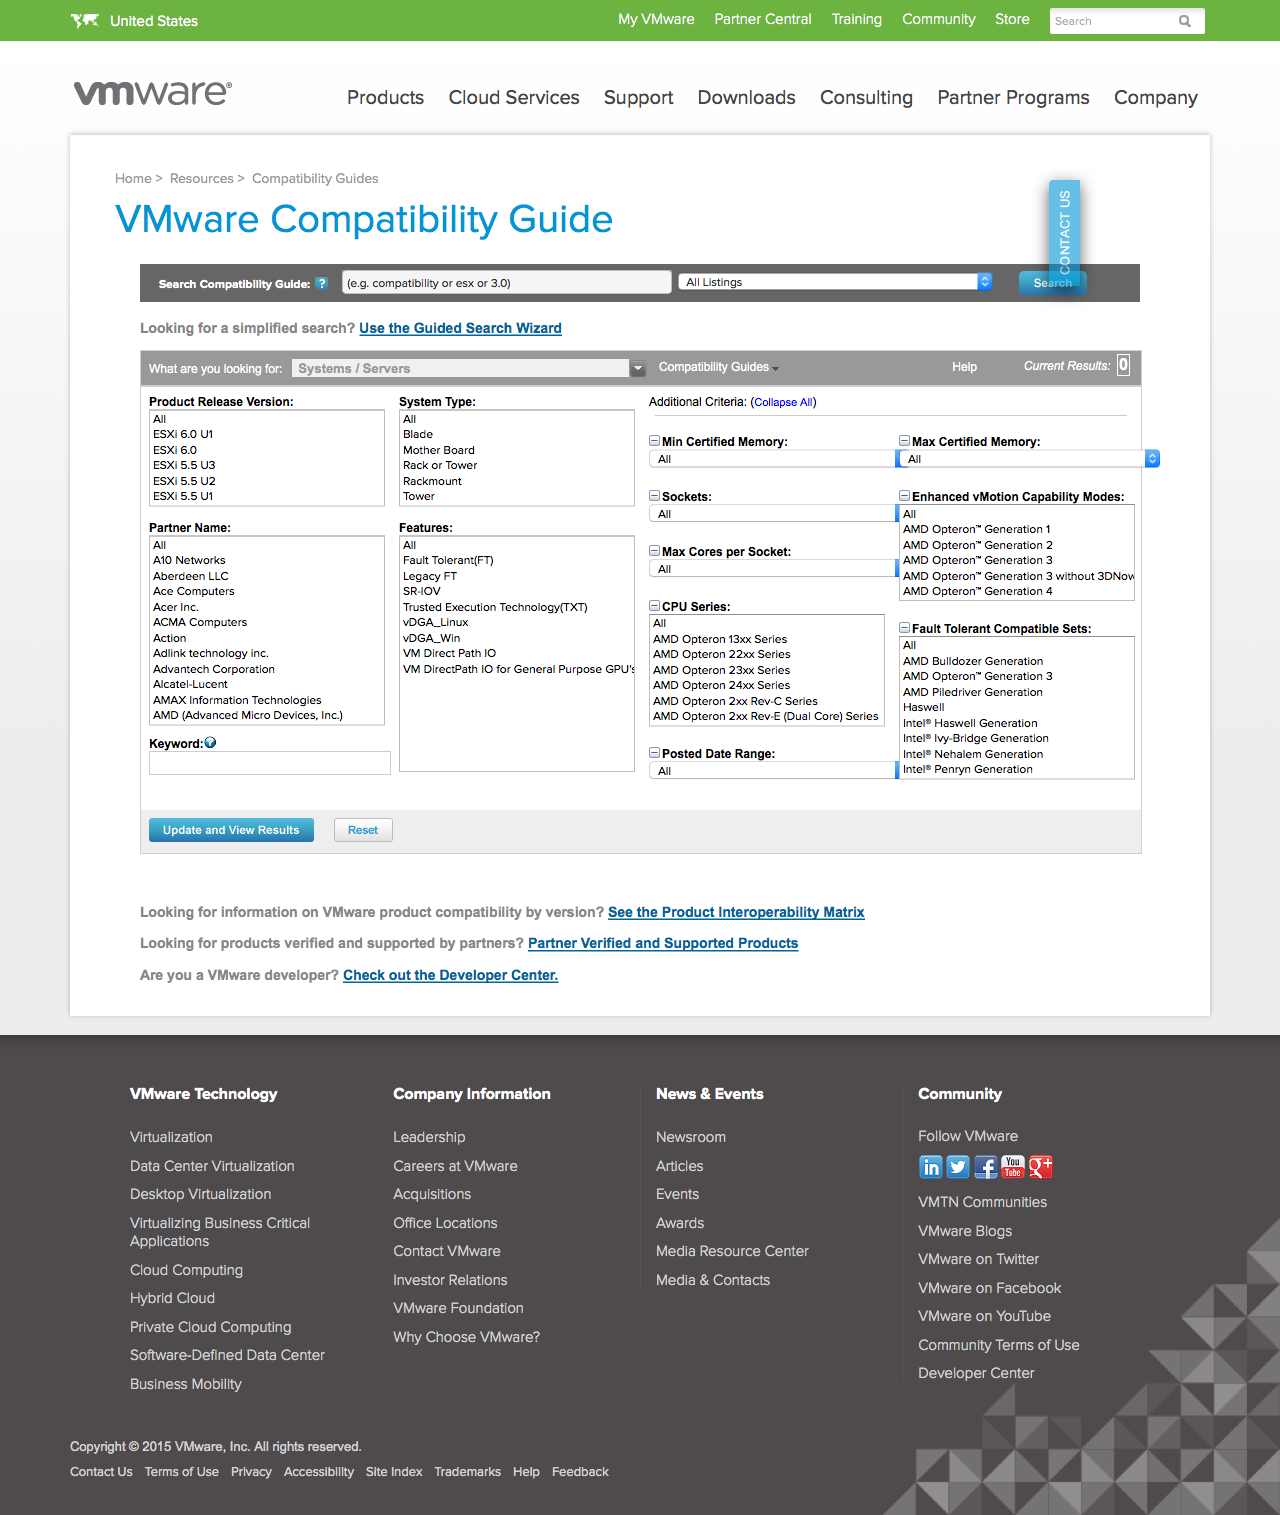
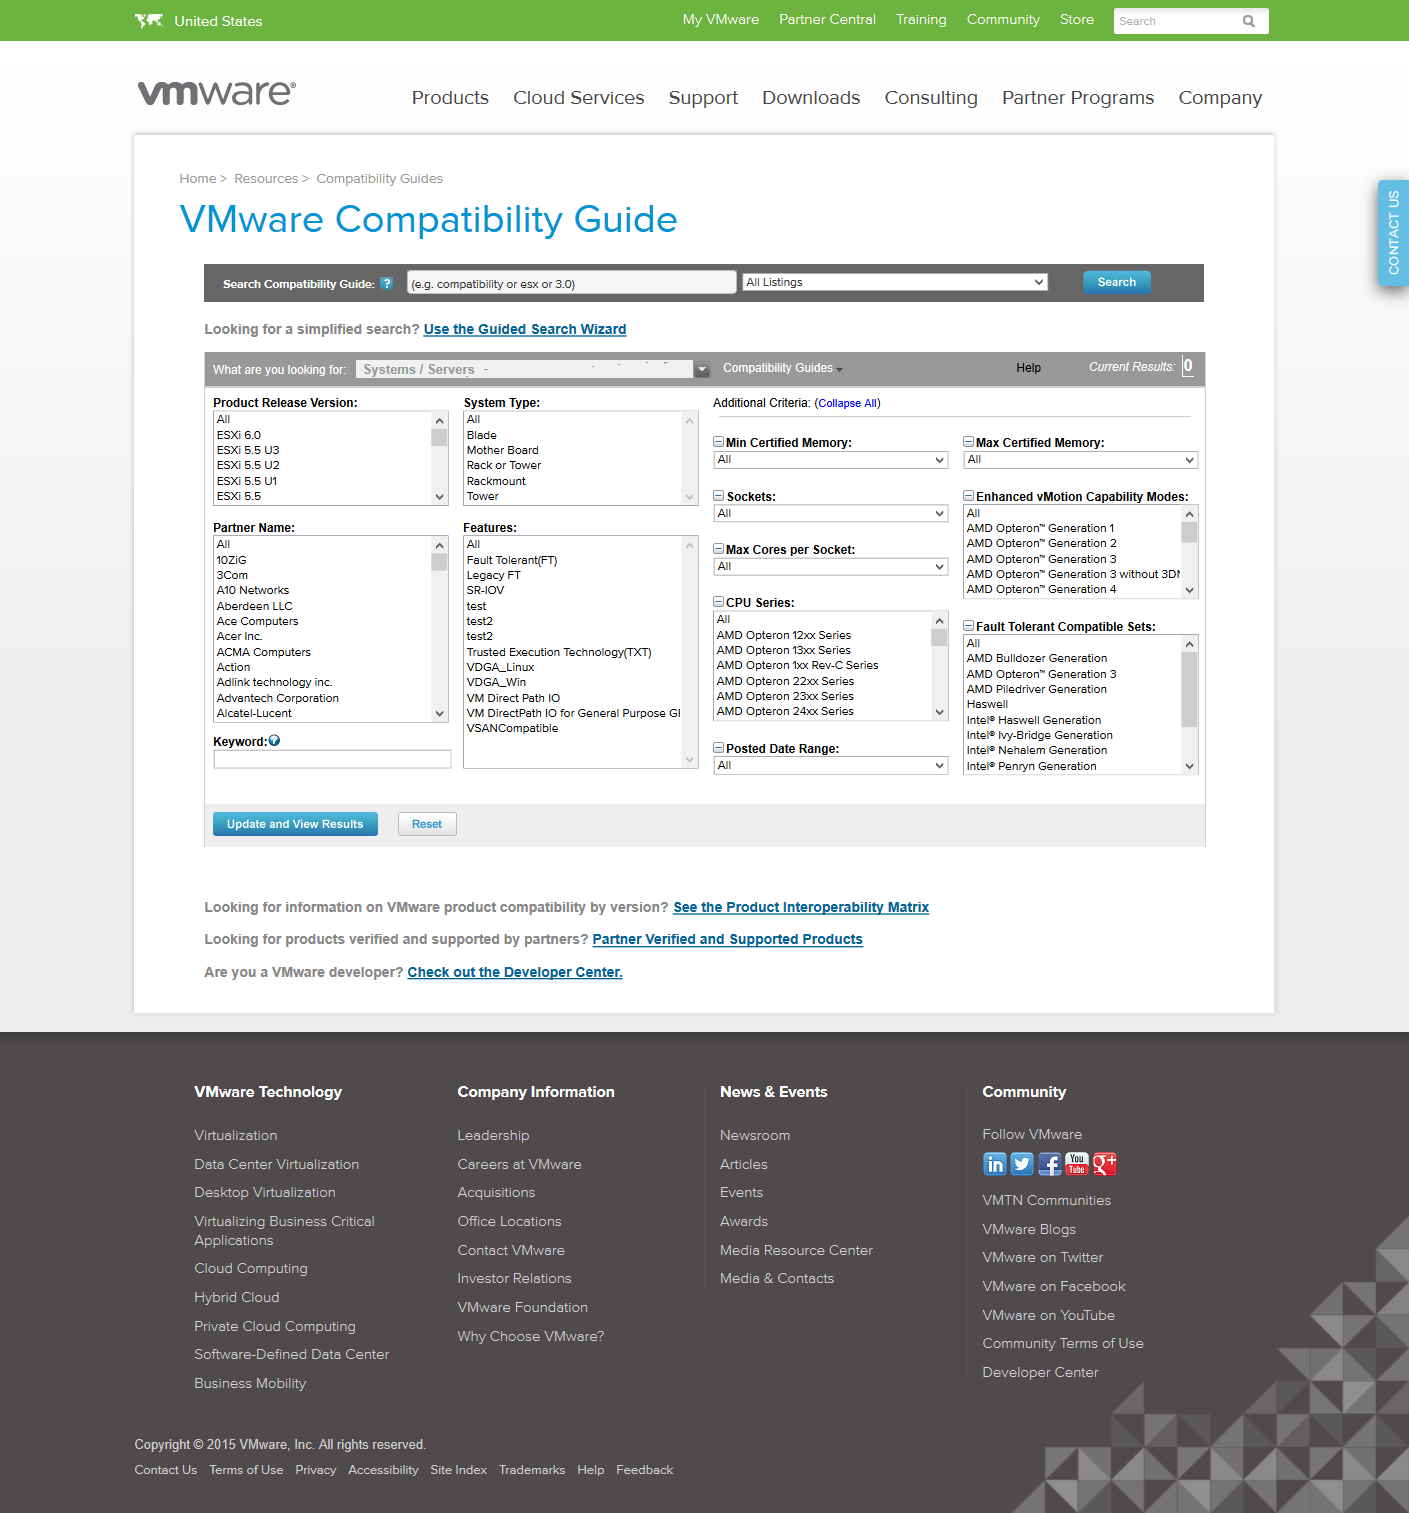
Creates diff file with difference in red color
Creates diff file with difference in red color

diff --git a/src/main/java/PageShooter.java b/src/main/java/PageShooter.java
@@ -1,6 +1,10 @@
 
+import java.awt.image.BufferedImage;
+import java.awt.image.DataBufferInt;
 import java.io.File;
 import java.util.concurrent.TimeUnit;
+
+import javax.imageio.ImageIO;
 
 import org.apache.commons.io.FileUtils;
 import org.openqa.selenium.OutputType;
@@ -16,8 +20,8 @@ public class PageShooter {
 
 	public static void main(final String[] args) throws Exception {
 		System.out.print(args);
-		final String link = "http://www.vmware.com/resources/compatibility/search.php";
-		final String link1 = "http://www.vmware.com/resources/compatibility/search.php?deviceCategory=san";
+		final String link = "http://localhost/sprint/comp_guide2/search1.php";
+		final String link1 = "http://localhost/sprint/comp_guide2/search.php";
 		final File screenShot = new File("screenshot.png").getAbsoluteFile();
 		final File screenShot1 = new File("screenshot1.png").getAbsoluteFile();
 
@@ -47,6 +51,28 @@ public class PageShooter {
 			FileUtils.copyFile(outputFile1, screenShot1);
 			PageShooter.LOGGER.debug("Screenshot saved: {}", screenShot1);
 			System.out.println(screenShot1);
+			
+			//Screenshot diff
+			BufferedImage img = ImageIO.read(screenShot);
+			BufferedImage img1 = ImageIO.read(screenShot1);
+			File difffile = new File("diff_file.png");
+			
+
+
+			System.out.print("("+img.getHeight()+","+img.getWidth()+");("+img1.getHeight()+","+img1.getWidth()+")");
+			for(int i = 0; i < img.getWidth(); i++)
+			{
+			    for(int j = 0; j < img.getHeight(); j++)
+			    {
+			    	if(img.getRGB(i, j) != img1.getRGB(i, j))
+			    	{
+			    		System.out.println(i+","+j);
+			    		img.setRGB(i, j, new java.awt.Color(255,0,0).getRGB());
+			    	}
+			    	//System.out.print(img.getRGB(i, j));
+			    }
+			}
+			ImageIO.write(img, "png", difffile);
 			
 		} finally {
 			driver.close();
